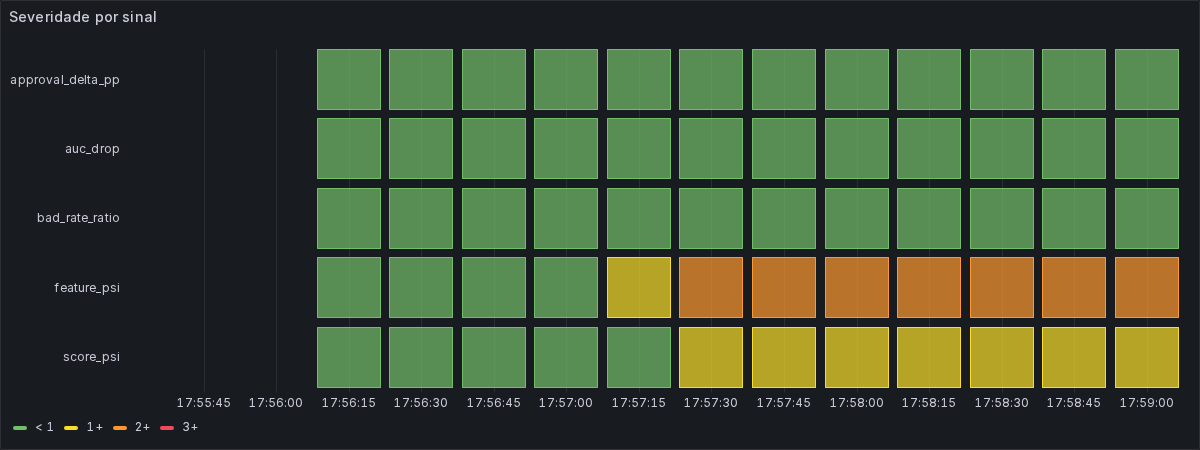
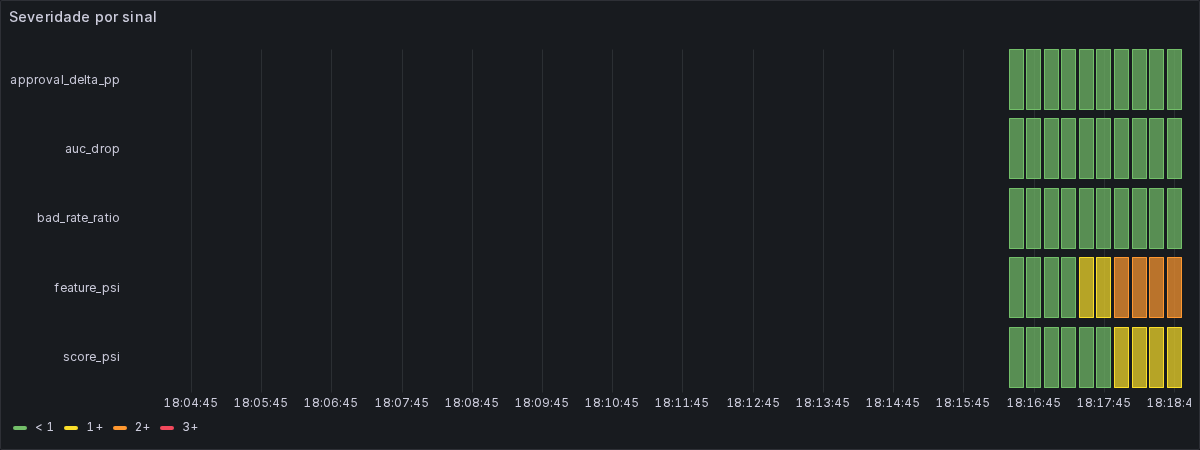
docs: registra replay do cenário S1 na stack recriada do zero com prints atualizados

diff --git a/docs/runs/INDEX.md b/docs/runs/INDEX.md
@@ -62,3 +62,4 @@ Observações humanas sobre os runs ficam na seção "Observações" de cada reg
 | [RUN-20261117-monitor-S5-01](RUN-20261117-monitor-S5-01.md) | 2026-11-17 | monitor | S5 | pipeline: 60 lotes · 0 bloqueados · 0 etapas com falha · alertas {'CDM_AUC_DROP': 'SEV-1', 'CDM_BAD_RATE_RATIO': 'SEV-2', 'CDM_FAIRNESS_GAP': 'SEV-2', 'CDM_FEATURE_DRIFT': 'SEV-2', 'CDM_SOFT_RULES': 'SEV-1'} | sim |
 | [RUN-20261117-calib-ROBUST-02](RUN-20261117-calib-ROBUST-02.md) | 2026-11-17 | calib | ROBUST | fora da regra na magnitude oficial ou no controle: S2 m=1 | sim |
 | [RUN-20261117-monitor-S0-01](RUN-20261117-monitor-S0-01.md) | 2026-11-17 | monitor | S0 | pipeline: 12 lotes · 0 bloqueados · 0 etapas com falha · alertas {} | sim |
+| [RUN-20261117-monitor-S1-01](RUN-20261117-monitor-S1-01.md) | 2026-11-17 | monitor | S1 | pipeline: 12 lotes · 0 bloqueados · 0 etapas com falha · alertas {'CDM_FEATURE_DRIFT': 'SEV-2', 'CDM_SCORE_DRIFT': 'SEV-1'} | sim |

diff --git a/docs/runs/RUN-20261117-monitor-S1-01.md b/docs/runs/RUN-20261117-monitor-S1-01.md
@@ -1,0 +1,39 @@
+# RUN-20261117-monitor-S1-01
+
+> Gerado por `src/reporting/run_record.py`. Não editar números à mão.
+
+| Campo | Valor |
+|---|---|
+| Data | 2026-11-17 18:18 |
+| Tipo | monitor |
+| Git SHA | `f6579a9ae15e8d2f8655a06e44e22bd5d21468c9` |
+| Árvore limpa | sim |
+| Hash dos dados de entrada | `—` |
+| Cenário / seed | S1 / 0 |
+| Modelo | champion |
+| MLflow | experimento `monitoring` |
+| modo | replay |
+| push | True |
+
+## Métricas
+
+| Métrica | job |
+|---|---|
+| batches | 12 |
+| blocked | 0 |
+| duration_max_s | 2.2349 |
+| duration_p50_s | 2.1455 |
+| failed_steps | 0 |
+| first_alert_batch | 5 |
+
+## Artefatos
+
+- `logs/RUN-20261117-monitor-S1-01.jsonl`
+- `logs/RUN-20261117-monitor-S1-01.summary.json`
+
+## Veredito
+
+pipeline: 12 lotes · 0 bloqueados · 0 etapas com falha · alertas {'CDM_FEATURE_DRIFT': 'SEV-2', 'CDM_SCORE_DRIFT': 'SEV-1'}
+
+## Observações
+
